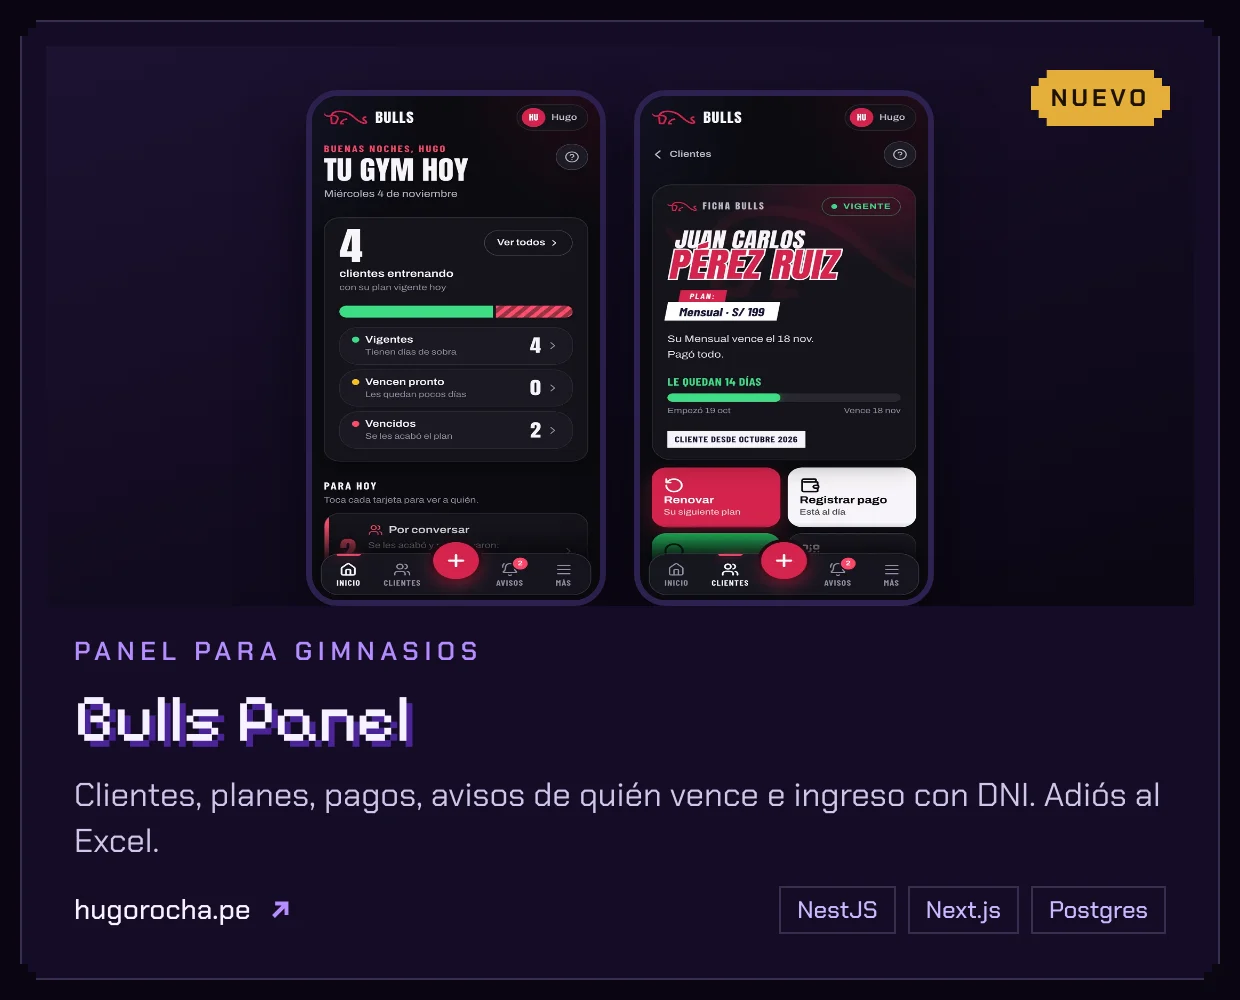
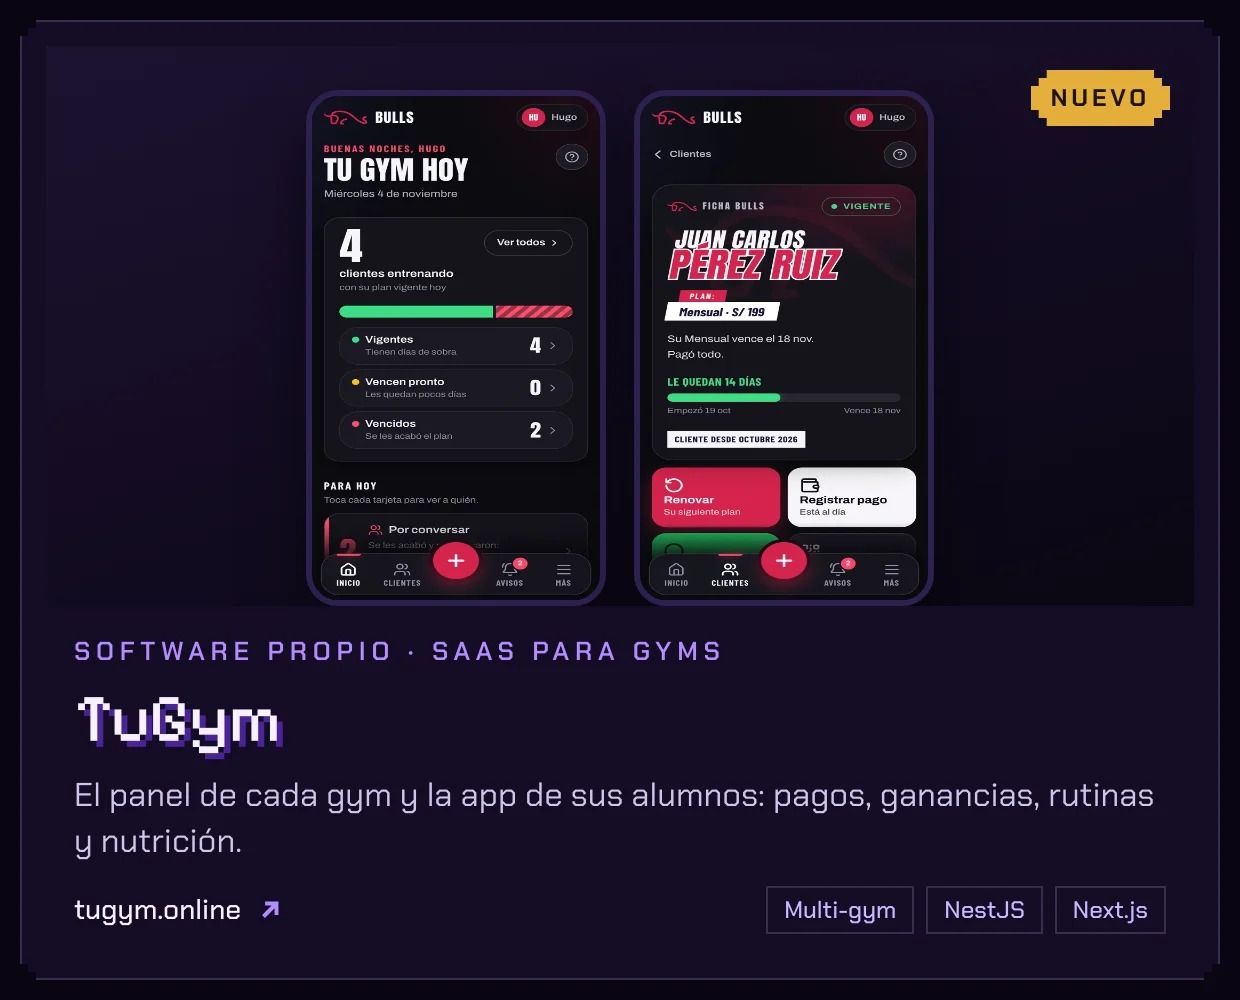
Perfil: TuGym en lugar de Bulls Panel, con link a tugym.online

diff --git a/_fuente/piezas.html b/_fuente/piezas.html
@@ -122,7 +122,7 @@ const P={
   hamburgruesas:{img:'prev-hamburgruesas-d.webp',cat:'Hamburguesería · Trujillo',n:'Hamburgruesas',d:'Eliges Gruesa o Gruesota y la ves engordar piso por piso.',u:'hamburgruesas.hugorocha.pe'},
   placa:{img:'prev-placa-d.webp',cat:'Software propio',n:'Checa tu Placa',d:'Escribes la placa y te llega la historia del vehículo en un reporte con PDF, sin crear cuenta.',u:'checatuplaca.com',chips:['11 fuentes','Pago con Yape']},
   caserita:{img:'prev-caserita-d.webp',cat:'Software · Co-creador',n:'Caserita',d:'Un ayudante dentro de WhatsApp: le cuentas lo que vendiste o gastaste y lo ordena.',u:'caserita.lat',chips:['WhatsApp','Bodegas']},
-  gym:{phones:['gym-inicio.webp','gym-ficha.webp'],cat:'Panel para gimnasios',n:'Bulls Panel',d:'Clientes, planes, pagos, avisos de quién vence e ingreso con DNI. Adiós al Excel.',u:'hugorocha.pe',badge:'Nuevo',chips:['NestJS','Next.js','Postgres']},
+  gym:{phones:['gym-inicio.webp','gym-ficha.webp'],cat:'Software propio · SaaS para gyms',n:'TuGym',d:'El panel de cada gym y la app de sus alumnos: pagos, ganancias, rutinas y nutrición.',u:'tugym.online',badge:'Nuevo',chips:['Multi-gym','NestJS','Next.js']},
 };
 const SKILLS={
   'web-con-concepto':{r:'#8847ff',tag:'Webs para negocios',n:'Web para tu negocio',cmd:'hazme una web para @tunegocio',d:'Le das el Instagram de un negocio y arma su web sin plantilla: tres ideas, su logo animado, su carta real y pedidos por WhatsApp.'},

diff --git a/README.md b/README.md
@@ -14,7 +14,7 @@
 
 Desarrollador en **Trujillo, Perú**. Hago webs para negocios que viven en Instagram y WhatsApp: hamburgueserías, gimnasios, tiendas de ropa y de relojes. Cada web sale de su marca real (sus fotos, su carta, sus precios) y recibe los pedidos por WhatsApp.
 
-También hago **software para negocios de verdad**. Checa tu Placa nació porque compro y vendo autos y revisaba SUNARP, SAT, papeletas y SOAT en páginas distintas: hice una sola. El panel de Bulls nació porque el gym llevaba a sus clientes en un Excel.
+También hago **software para negocios de verdad**. Checa tu Placa nació porque compro y vendo autos y revisaba SUNARP, SAT, papeletas y SOAT en páginas distintas: hice una sola. [TuGym](https://tugym.online) nació en Bulls, un gym que llevaba a sus clientes en un Excel: hoy es un panel para cualquier gym, con la app de sus alumnos.
 
 - 🛠 Hago la web, el backend y el servidor: lo diseño, lo programo y lo publico yo.
 - 🤖 Trabajo con **Claude Code** y vendo las skills que uso en [hugorocha.pe](https://hugorocha.pe).
@@ -36,7 +36,7 @@ También hago **software para negocios de verdad**. Checa tu Placa nació porque
 <img src="assets/sec-software.png" width="100%" alt="02 / Software — Sistemas para negocios de verdad.">
 
 <p align="center">
-  <a href="https://hugorocha.pe"><img src="assets/card-gym.webp" width="49%" alt="Bulls Panel — panel para gimnasios"></a>
+  <a href="https://tugym.online"><img src="assets/card-gym.webp" width="49%" alt="TuGym — panel para gimnasios y app para sus alumnos"></a>
   <a href="https://checatuplaca.com"><img src="assets/card-placa.webp" width="49%" alt="Checa tu Placa — historia del vehículo por placa"></a>
   <a href="https://caserita.lat"><img src="assets/card-caserita.webp" width="49%" alt="Caserita — ayudante de negocio en WhatsApp"></a>
 </p>
